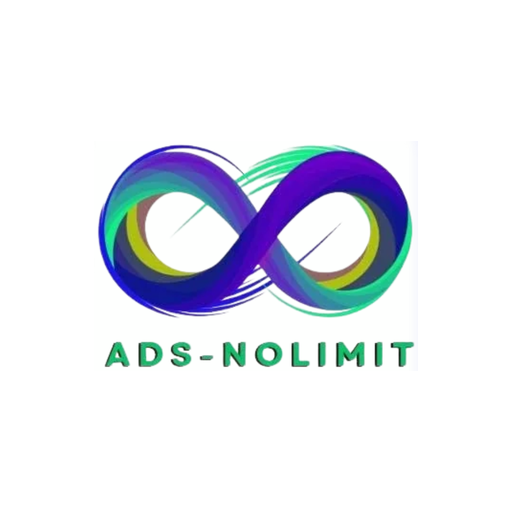
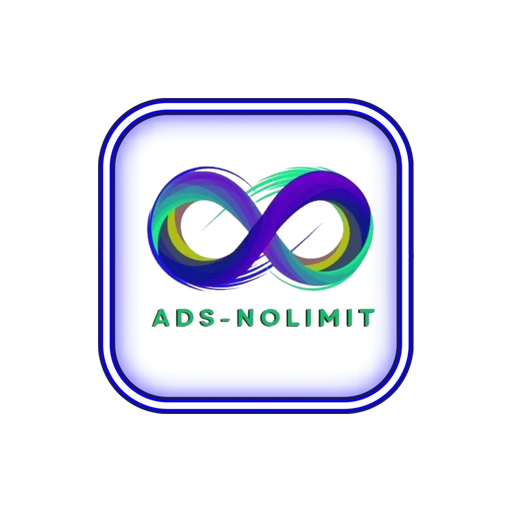
Biểu tượng Android (maskable): giữ cả khung, thu vừa vùng an toàn
Claude-Session: https://claude.ai/code/session_01SJMHqM9gcisNhLuqWLLbc5

Changed region(s): [[0.1875, 0.1875, 0.8125, 0.8125]]

diff --git a/scripts/make-app-icons.py b/scripts/make-app-icons.py
@@ -34,22 +34,16 @@ fit(sq, 512).save('public/icon-512.png'); fit(sq, 192).save('public/icon-192.png
 # 2) iPhone: không hỗ trợ trong suốt → nền trắng, iOS tự bo góc; khung thu 88% để không bị cắt
 fit(sq, 180, 0.88, (255, 255, 255, 255)).convert('RGB').save('public/apple-touch-icon.png')
 
-# 3) Android kiểu mới (maskable): hệ điều hành tự cắt hình → nền trắng tràn viền, chỉ logo + chữ trong vùng an toàn
-cx0, cx1, cy0, cy1 = x0 + 170, x1 - 170, y0 + 170, y1 - 170                # phần trong khung, bỏ cả quầng sáng sát khung
-sub = a[cy0:cy1, cx0:cx1]
-ink = sub.min(axis=2) < 150                                                # chỉ nét đậm của logo và chữ
-iy, ix = np.where(ink)
-pad = 14
-bx0, bx1, by0, by1 = ix.min() + cx0 - pad, ix.max() + 1 + cx0 + pad, iy.min() + cy0 - pad, iy.max() + 1 + cy0 + pad
-print('logo+chu:', bx0, by0, bx1, by1)
-content = src.crop((bx0, by0, bx1, by1)).convert('RGBA')
-diag = (content.width ** 2 + content.height ** 2) ** 0.5
-k = (0.80 * 512) / diag * 0.97                                             # nằm trong vòng tròn an toàn 80%
-cw, ch = round(content.width * k), round(content.height * k)
-mk = Image.new('RGBA', (512, 512), (255, 255, 255, 255))
-mk.alpha_composite(content.resize((cw, ch), Image.LANCZOS), ((512 - cw) // 2, (512 - ch) // 2))
+# 3) Android kiểu mới (maskable): mỗi hãng tự cắt hình (tròn / vuông bo) → nền trắng tràn viền,
+#    cả khung thu nhỏ vừa vòng tròn an toàn 80% để không hãng nào cắt lẹm viền (Chủ tịch yêu cầu Android cũng có khung).
+top = np.where(inside[y0 + 3])[0]
+radius = int(top.min() - x0)                                              # bán kính bo góc của khung (px ảnh gốc)
+s_side = x1 - x0
+far = (s_side / 2 - radius) * 2 ** 0.5 + radius                           # điểm xa tâm nhất của khung
+k = (0.40 * 512) / far * 0.97
+print('ban kinh goc', radius, 'ti le khung tren maskable', round(k * s_side / 512, 3))
+mk = fit(sq, 512, k * side / 512, (255, 255, 255, 255))
 mk.convert('RGB').save('public/icon-maskable-512.png')
-print('maskable noi dung', cw, ch)
 
 # Ảnh xem trước: trên nền hình nền tối và nền sáng, + iPhone bo góc, + Android hình tròn
 def rounded(img, radius_ratio):
